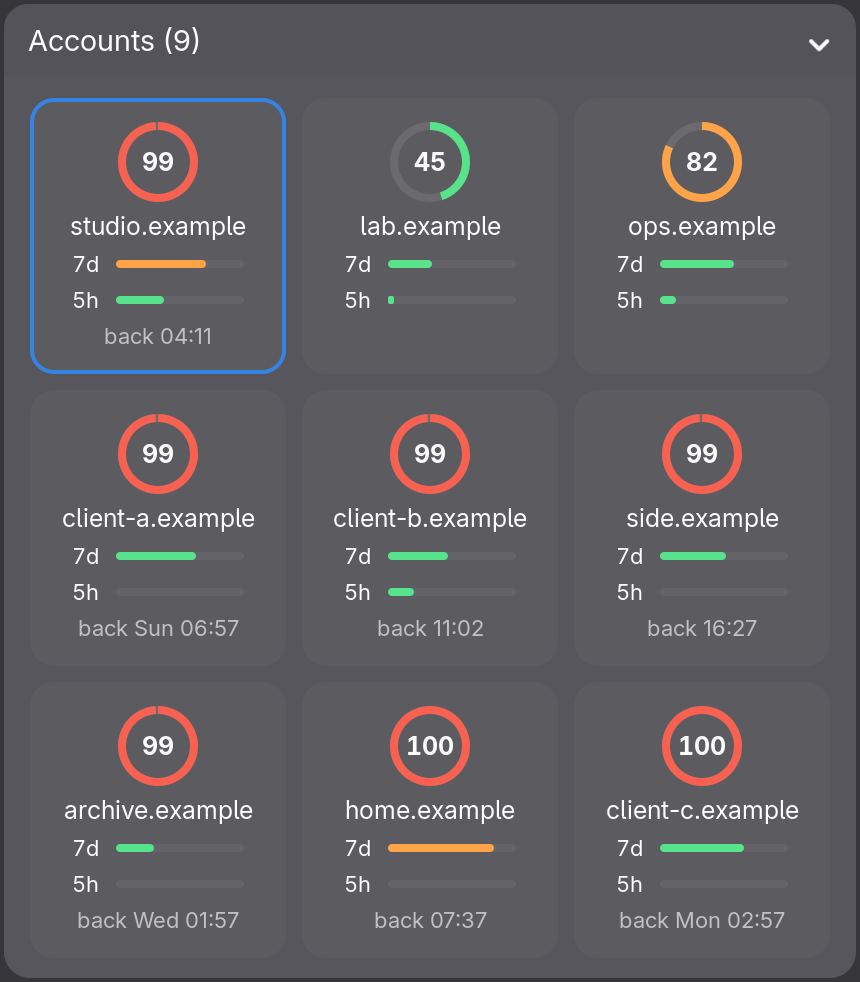
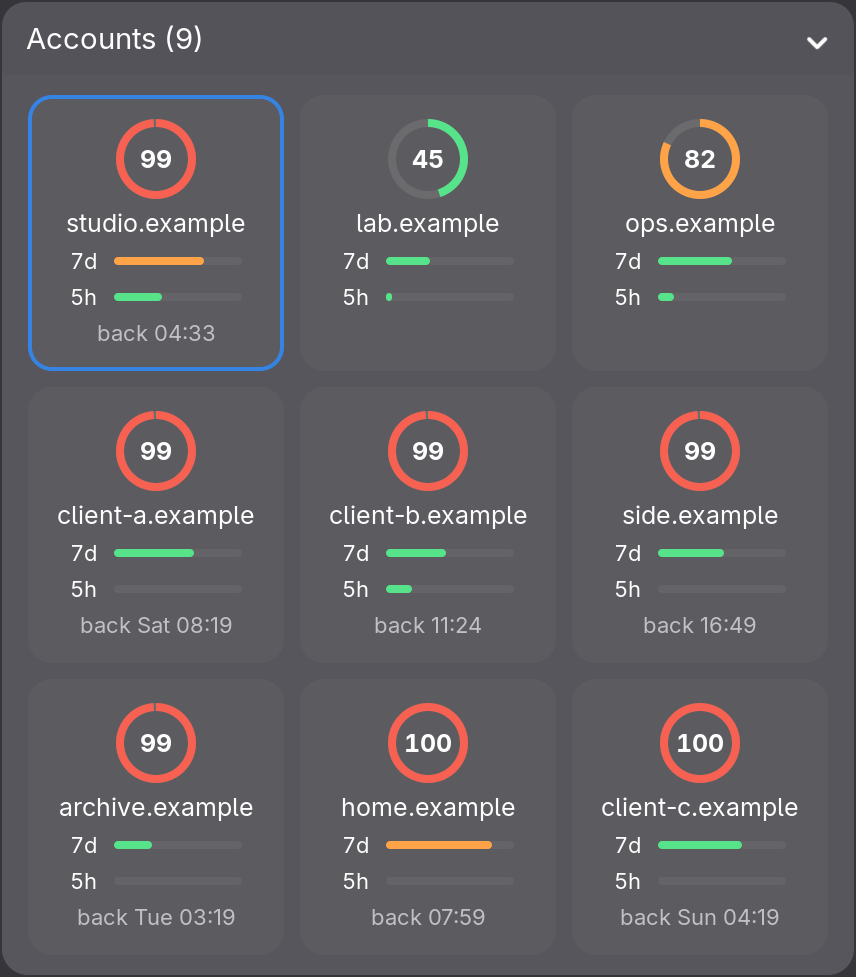
Bring the README and images up to the forecast
The level table now defines "available" once, as the model does. The
data flow shows api.js between the service and both views, the npm test
row lists what it now runs, and the changelog records the install.sh
change and why. The images are rebuilt from the fictional fleet, so the
menu shows the "Fable forecast" item.

diff --git a/README.md b/README.md
@@ -3,8 +3,8 @@
 GNOME Shell 49 panel indicator for a local [teamclaude](https://github.com/KarpelesLab/teamclaude) proxy. It shows where the account fleet stands on the 5h window, the weekly window and the Fable weekly cap, and when Fable comes back.
 
 <p align="center">
-  <img src="assets/menu.png" width="374" alt="Top bar label 'Fable 91% · 7d 55%' with the open menu: fleet bars for 5h, 7d and Fable, then the next three Fable resets">
-  <img src="assets/accounts.png" width="430" alt="Accounts grid: one tile per account with a Fable ring, 7d and 5h bars, and the come-back time of capped accounts">
+  <img src="assets/menu.png" width="366" alt="Top bar label 'Fable 91% · 7d 55%' with the open menu: fleet bars for 5h, 7d and Fable, then the next three Fable resets">
+  <img src="assets/accounts.png" width="428" alt="Accounts grid: one tile per account with a Fable ring, 7d and 5h bars, and the come-back time of capped accounts">
 </p>
 <p align="center"><sub>A fictional fleet, from <code>tests/demo.js</code></sub></p>
 
@@ -47,16 +47,19 @@ When does Fable come back, account by account? The same forecast shows in a term
 | Terminal | `tcg-forecast [--days 1-14] [--step 1h\|3h\|6h] [--json]`. Works over SSH: `ssh -t <station> tcg-forecast`. A legend line ends the chart |
 | Window | Gauge menu, "Fable forecast", or `tcg-forecast --window` |
 
+An account is available when it is active, under the switch threshold (99% by default) and has no 7d or 5h cap.
+
 | Level | Rule |
 |---|---|
-| green | 2 or more accounts under 85% Fable |
-| amber | 1 or more accounts under the switch threshold (99%) |
-| red | No account under the switch threshold, or a 7d or 5h cap on all of them |
+| green | 2 or more available accounts under 85% Fable |
+| amber | 1 or more available accounts |
+| red | No available account |
 
 - Resets free an account at their exact time.
 - After a reset, the fleet's demand fills the accounts again, one at a time, so green can turn amber. The demand is the largest use rate of the current windows, counted from the newest ones.
 - The demand is a lower bound: when the whole fleet was capped, the demand it could not serve is not seen.
-- A 5h or 7d cap that hides Fable room shows on the account row, for example `5h back 18:41`.
+- A 5h or 7d cap that hides Fable room, or outlasts the Fable reset, shows on the account row, for example `5h back 18:41`. A disabled or failing account reads `disabled` or `error`.
+- A time 6 days or more away carries its day of month: `Fri 06 05:11`.
 - The change list shows the first 8 changes. `--json` lists all of them.
 - With 3 h columns the terminal chart is about 90 characters wide. `--step 6h` makes it about 60, and is the default over 7 days.
 
@@ -64,12 +67,12 @@ When does Fable come back, account by account? The same forecast shows in a term
 
 ```mermaid
 flowchart LR
-  TC[teamclaude service<br/>127.0.0.1:3456] -->|GET /teamclaude/quota| EXT
-  TC -->|GET /teamclaude/status| EXT
-  EXT[extension.js<br/>every 30 s and on menu open] --> MODEL[model.js<br/>pure view model]
+  TC[teamclaude service<br/>127.0.0.1:3456] -->|GET /teamclaude/quota<br/>GET /teamclaude/status| API[api.js<br/>read-only client]
+  API --> EXT[extension.js<br/>every 30 s and on menu open]
+  EXT --> MODEL[model.js<br/>pure view model]
   MODEL --> EXT
   EXT --> UI[panel ring + label<br/>popup menu]
-  TC -->|same two calls| FC[tcg-forecast<br/>forecast window]
+  API --> FC[tcg-forecast<br/>forecast window]
 ```
 
 Both calls are local and read-only. The extension sends nothing anywhere else.
@@ -106,7 +109,7 @@ Without it, log out and back in. The same command loads an update: `git pull && 
 
 | Command | What it checks |
 |---|---|
-| `npm test` | `model.js` unit tests, plus a read-only smoke test against the running proxy (skips when it is down) |
+| `npm test` | Model, forecast, text, chart and CLI unit tests, plus read-only smoke tests against the running proxy (gauge payload, forecast, `tcg-forecast --json`), skipped when it is down |
 | `tests/headless.sh` | Loads this checkout's extension in a throwaway headless Shell, exit 0 when ACTIVE |
 | `tests/headless.sh shots DIR` | Same, and saves panel, menu and accounts screenshots (dark and light) to `DIR` |
 | `tests/headless.sh live-load` | Starts the Shell without the extension, loads it with `tools/live-load.sh`, then reloads it |

diff --git a/CHANGELOG.md b/CHANGELOG.md
@@ -12,6 +12,7 @@
 
 - `tests/headless.sh` loads the extension of its own checkout, with throwaway data, bin and cache dirs. Why: it tested the installed copy, and its live-load mode wrote to the real install.
 - The teamclaude client moved to `extension/api.js`. Why: the panel, the command and the window share it.
+- `install.sh` also links `tcg-forecast` into `~/.local/bin` (`XDG_BIN_HOME`), stops if a file that is not a link is there, and honors `XDG_DATA_HOME`. Why: the command must be on PATH, also over SSH.
 
 ## 3 (2026-10-23)
 
